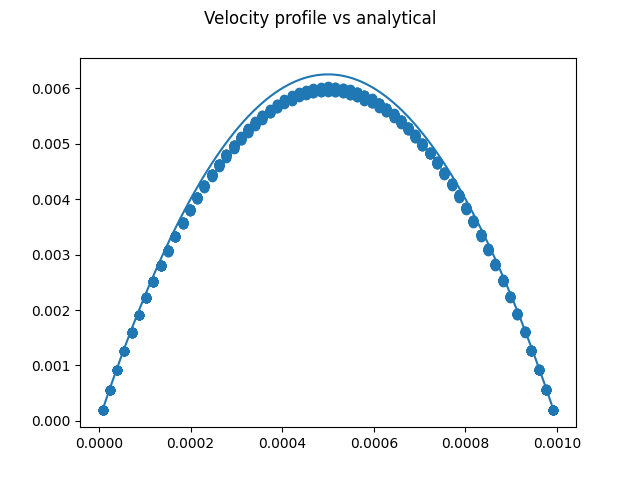
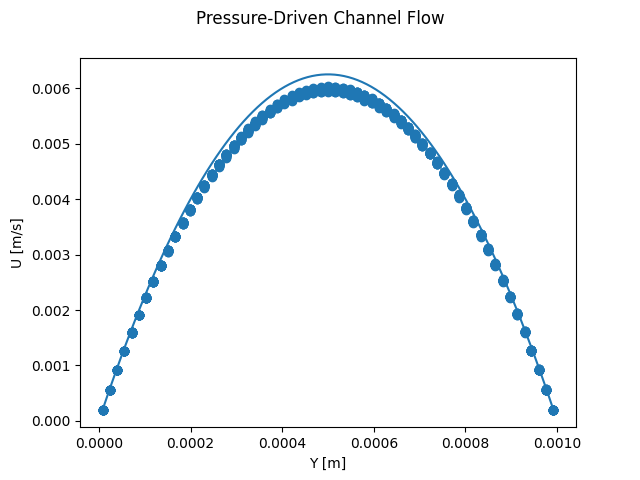
update plotting script and plots

Changed region(s): [[0.3125, 0.0, 0.6875, 0.0625], [0.0, 0.4688, 0.0312, 0.5625], [0.5, 0.9375, 0.5312, 1.0]]

diff --git a/examples/plot_output.py b/examples/plot_output.py
@@ -142,12 +142,13 @@ def plot_channel_flow():
 
     # *** Figure 1 ***
     fig, axs = plt.subplots(nrows=2, layout="constrained", sharex=True, sharey=True)
+    fig.suptitle("Pressure-Driven Channel Flow")
     p_interpolator = tri.LinearTriInterpolator(triang, p)
     p_interpolated = p_interpolator(Xi, Yi)
     cm = axs[0].contourf(xi, yi, p_interpolated, levels=10)
     fig.colorbar(cm, label="Gage Pressure [Pa]")
     axs[0].quiver(x, y, u, v)
-    axs[0].set_title("Velocity vectors; pressure contours")
+    axs[0].set_title("Velocity Vectors; Pressure Contours")
     axs[0].set_xlabel("X [m]")
     axs[0].set_ylabel("Y [m]")
 
@@ -161,16 +162,18 @@ def plot_channel_flow():
     # p_grad = np.gradient(p_interpolated, xi, yi)
     # axs[1].quiver(xi, yi, p_grad[1]*0, p_grad[0])
 
-    fig.colorbar(cm, label="du/dy [1/s]")
+    fig.colorbar(cm, label="Velocity gradient [1/s]")
     fig.savefig("./examples/channel_flow_contour_plots.png", dpi=300)
 
     # *** Figure 2 ***
     fig, ax = plt.subplots()
-    fig.suptitle("Velocity profile vs analytical")
+    fig.suptitle("Pressure-Driven Channel Flow")
     a = CHANNEL_HEIGHT
     u_analytical = 1 / (2 * MU) * DP / DX * (yi**2 - a * yi)
     ax.plot(yi, u_analytical)
     ax.scatter(y, u)
+    ax.set_xlabel("Y [m]")
+    ax.set_ylabel("U [m/s]")
     fig.savefig("./examples/channel_flow_velocity_profile.png")
 
     tile_all_matplotlib_figures()
